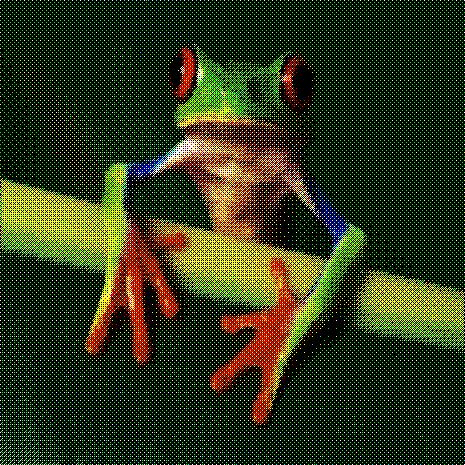
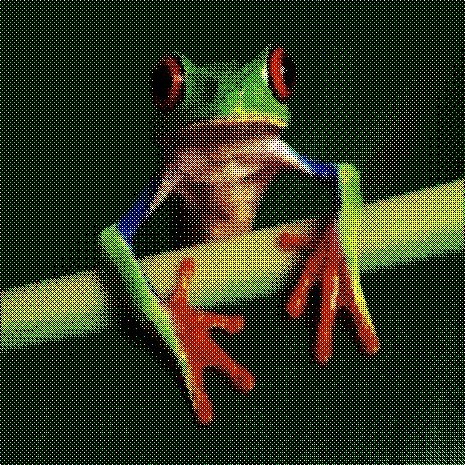
GLSL で画像にフィルタをかけてみるテスト（改8）

diff --git a/cx20/nhv8/index.html b/cx20/nhv8/index.html
@@ -87,8 +87,8 @@ float dither( mat4 m, ivec2 p )
 void main(void)
 {
     ivec2 p = ivec2(mod( gl_FragCoord.xy, 8.0 ));
-    vec2 uv = gl_FragCoord.xy / resolution.xy;
-    vec3 c = texture2D( texture, -uv ).xyz;
+    vec2 uv = vTextureCoord; // gl_FragCoord.xy / resolution.xy;
+    vec3 c = texture2D( texture, uv ).xyz;
     c = pow( c, vec3(2.2) );    
     c -= 1.0/255.0;
     
